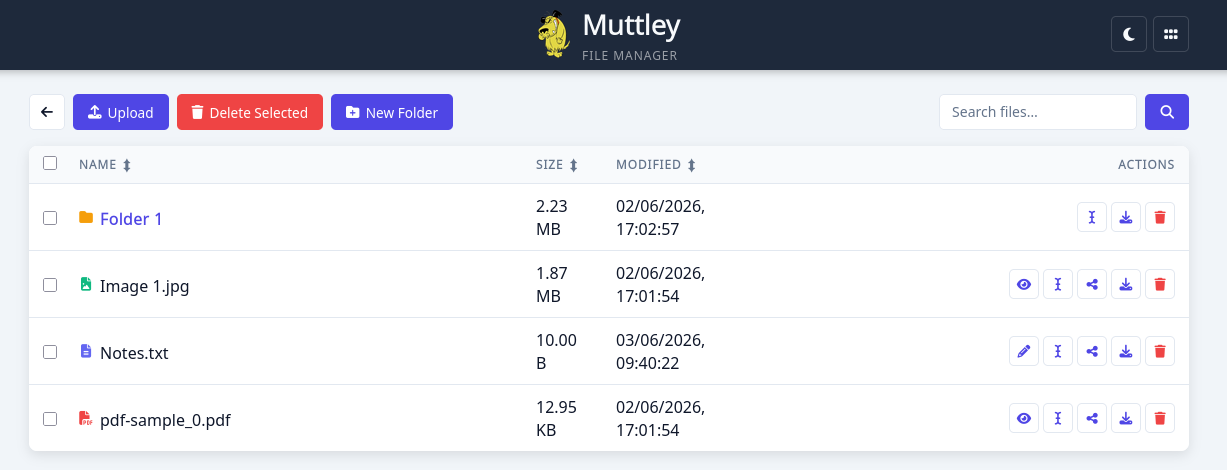
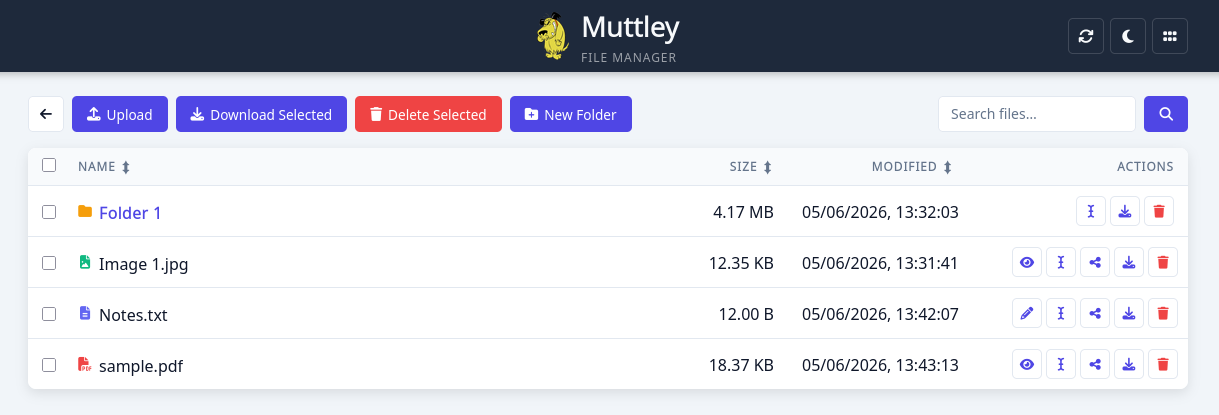
Version 2.0 - Major improvements

diff --git a/docker-build/Muttley-JS/frontend/main.js b/docker-build/Muttley-JS/frontend/main.js
@@ -14,6 +14,15 @@ let sortState = {
 /* ============================================================
    THEME
    ============================================================ */
+function refreshFiles() {
+    const icon = document.getElementById('refreshIcon');
+    icon.classList.remove('spinning');
+    void icon.offsetWidth; // reflow to restart animation
+    icon.classList.add('spinning');
+    icon.addEventListener('animationend', () => icon.classList.remove('spinning'), { once: true });
+    fetchFiles();
+}
+
 function initTheme() {
     const saved = localStorage.getItem('muttley-theme') || 'light';
     document.documentElement.setAttribute('data-theme', saved);
@@ -914,6 +923,44 @@ async function deleteSelected() {
             }
         }
     );
+}
+
+async function downloadSelected() {
+    const selectedCheckboxes = Array.from(document.querySelectorAll("tbody#fileTable input[type='checkbox']:checked"));
+    if (selectedCheckboxes.length === 0) {
+        openAlertPopup("No items selected for download.");
+        return;
+    }
+
+    const itemsToDownload = selectedCheckboxes.map(cb => cb.value);
+    openAlertPopup("Preparing your download, please wait...");
+
+    try {
+        const response = await fetch("/download_selected_zip", {
+            method: "POST",
+            headers: { "Content-Type": "application/json" },
+            body: JSON.stringify({ target_dir: currentDir, items: itemsToDownload })
+        });
+
+        if (!response.ok) {
+            const err = await response.json();
+            openAlertPopup("Error creating ZIP: " + (err.error || "Unknown error"));
+            return;
+        }
+
+        const blob = await response.blob();
+        const url = URL.createObjectURL(blob);
+        const a = document.createElement("a");
+        a.href = url;
+        a.download = "selected_files.zip";
+        document.body.appendChild(a);
+        a.click();
+        a.remove();
+        URL.revokeObjectURL(url);
+        closeAlertPopup();
+    } catch (error) {
+        openAlertPopup("Error initiating download: " + error.message);
+    }
 }
 
 async function navigateToRoot() {

diff --git a/docker-build/Muttley-JS/backend/server.js b/docker-build/Muttley-JS/backend/server.js
@@ -240,6 +240,46 @@ app.post("/download_zip", (req, res) => {
     }
 });
 
+// POST /download_selected_zip
+app.post("/download_selected_zip", (req, res) => {
+    try {
+        const { target_dir, items } = req.body;
+
+        if (!target_dir || !Array.isArray(items) || items.length === 0) {
+            return res.status(400).json({ error: "target_dir and items are required" });
+        }
+
+        const safeTargetDir = safePath(target_dir);
+        const archive = archiver("zip", { zlib: { level: 9 } });
+
+        res.attachment("selected_files.zip");
+        res.setHeader("Content-Type", "application/zip");
+
+        archive.on("error", (err) => {
+            console.error("Archive error:", err);
+            res.status(500).json({ error: "Error creating ZIP file" });
+        });
+
+        archive.pipe(res);
+
+        for (const item of items) {
+            const safeName = path.basename(item);
+            const itemPath = path.join(safeTargetDir, safeName);
+            if (!fs.existsSync(itemPath)) continue;
+            if (fs.lstatSync(itemPath).isDirectory()) {
+                archive.directory(itemPath, safeName);
+            } else {
+                archive.file(itemPath, { name: safeName });
+            }
+        }
+
+        archive.finalize();
+    } catch (err) {
+        console.error("Error creating ZIP for selected items:", err);
+        res.status(400).json({ error: err.message });
+    }
+});
+
 // POST /delete route
 app.post("/delete", async (req, res) => {
     const targetDir = req.body.target_dir || "./data"; // Adjust BASE_DIR

diff --git a/docker-build/Muttley-JS/frontend/index.html b/docker-build/Muttley-JS/frontend/index.html
@@ -20,6 +20,9 @@
                 </div>
             </a>
             <div class="header-actions">
+                <button class="btn-icon" onclick="refreshFiles()" id="refreshBtn" title="Refresh">
+                    <i class="fa-solid fa-arrows-rotate" id="refreshIcon"></i>
+                </button>
                 <button class="btn-icon" onclick="toggleTheme()" id="themeToggle" title="Toggle dark mode">
                     <i class="fa-solid fa-moon" id="themeIcon"></i>
                 </button>
@@ -38,6 +41,9 @@
                 </button>
                 <button class="button" onclick="openUploadPopup()" title="Upload">
                     <i class="fa-solid fa-upload"></i><span class="btn-label"> Upload</span>
+                </button>
+                <button class="button" onclick="downloadSelected()" title="Download Selected">
+                    <i class="fa-solid fa-download"></i><span class="btn-label"> Download Selected</span>
                 </button>
                 <button class="button danger" onclick="deleteSelected()" title="Delete Selected">
                     <i class="fa-solid fa-trash"></i><span class="btn-label"> Delete Selected</span>

diff --git a/docker-build/Muttley-JS/frontend/style.css b/docker-build/Muttley-JS/frontend/style.css
@@ -140,6 +140,12 @@ header {
 }
 .btn-icon:hover { background: rgba(255,255,255,.15); }
 
+@keyframes spin-once {
+    from { transform: rotate(0deg); }
+    to   { transform: rotate(360deg); }
+}
+.spinning { animation: spin-once 0.6s linear; }
+
 /* ============================================================
    ACTION BUTTONS (table cell)
    ============================================================ */

diff --git a/README.md b/README.md
@@ -8,10 +8,12 @@ Muttley provides a robust solution for navigating, uploading, downloading, and m
 ## 🔔 Features
 - **Dynamic File Navigation**: Effortlessly navigate through directories with a clean and responsive UI.
 - **Upload and Download**: Drag-and-drop file uploads with progress feedback and easy file downloads, including support for downloading directories as ZIP archives.
+- **Bulk Download**: Select multiple files and folders and download them all at once as a single ZIP archive using the **Download Selected** button.
 - **Edit On-the-Fly**: Edit text files directly within the app using the built-in editor.
 - **PDF Preview**: Preview PDF files directly in an overlay popup without leaving the interface, using a built-in viewer with iframe rendering.
 - **Image Preview**: Preview images (PNG, JPG, JPEG, GIF) directly in an overlay popup without leaving the interface.
 - **Batch Operations**: Delete multiple files and folders simultaneously, with confirmation prompts for non-empty directories.
+- **Manual Refresh**: Instantly re-sync the file list with the server using the **Refresh** button in the header — no page reload, state and open editors are preserved.
 - **Rename**: Rename any file or folder directly from the interface using the rename button in the action row.
 - **Share Links**: Generate a secure, time-limited download link for any file. Links are valid for **7 days**, require no login to use, and work automatically in any deployment (local, Docker, or production) thanks to `window.location.origin`-based URL generation. Share links are stored in memory and cleaned up automatically on expiry.
 - **List & Grid Views**: Switch between a compact list view and a large icon grid view (with image thumbnails) using the toggle in the header.